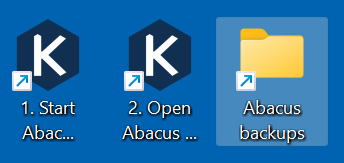
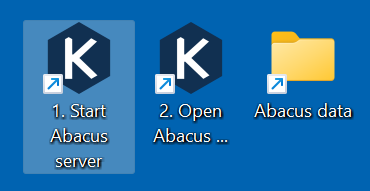
Abacus backups -> data
- Abacus backups is nu Abacus data, afbeelding en beschrijving gewijzigd.

diff --git a/gebruikersdocumentatie/src/installatie/installeren-starten/windows.md b/gebruikersdocumentatie/src/installatie/installeren-starten/windows.md
@@ -26,7 +26,7 @@ Bij deze installatiemethode worden drie snelkoppelingen op het bureaublad geplaa
 
 - Met **1. Start Abacus server** start je de Abacus-server. Gebruik deze snelkoppeling voordat je Abacus opent in de browser.
 - Met **2. Open Abacus in browser** open je de browserinterface.
-- Met **Abacus backups** open je de map met back-ups.
+- Met **Abacus data** open je de map met alle data, zoals de databasebestanden en back-ups.
 
 ![Snelkoppelingen op het bureaublad](./img/windows-snelkoppelingen.png)
 
